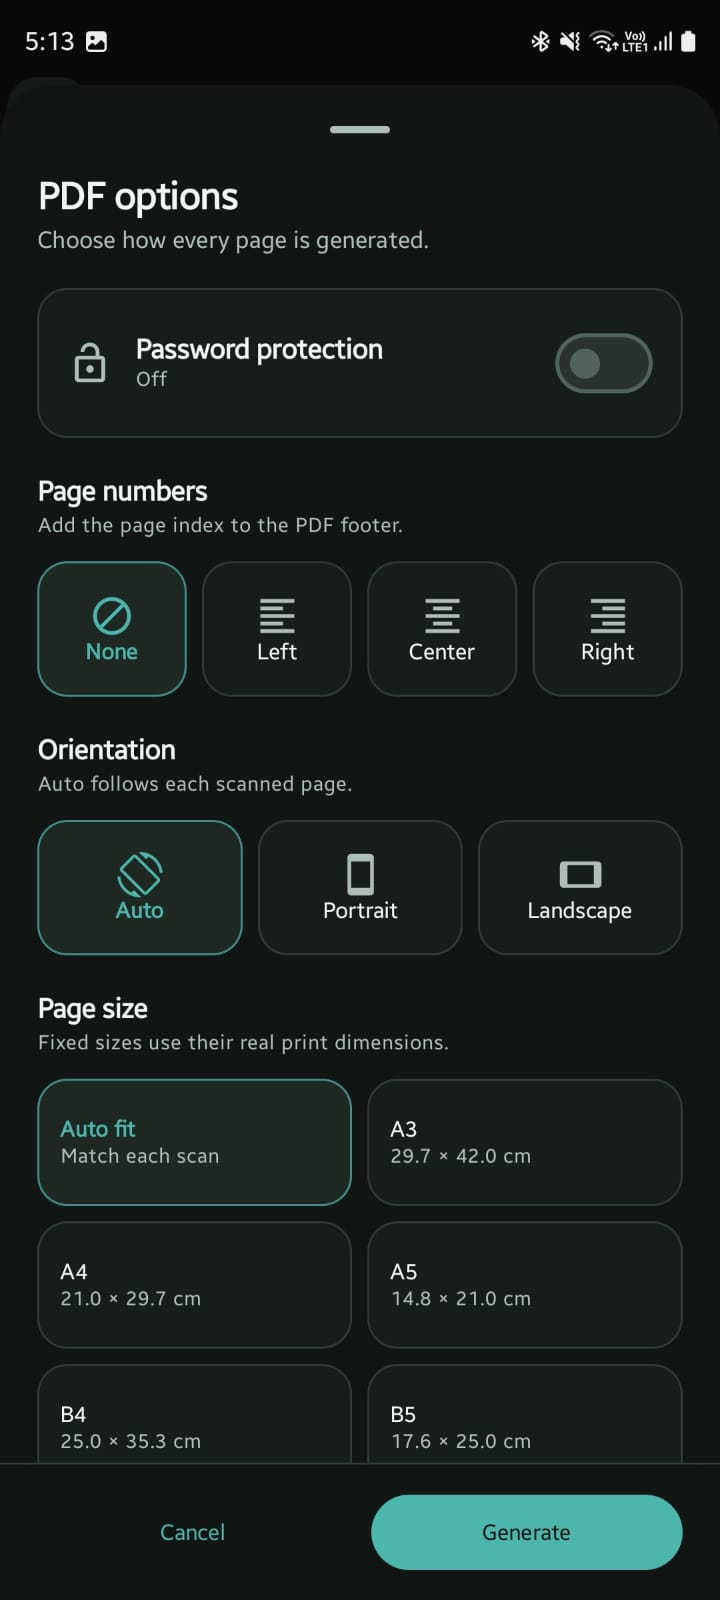
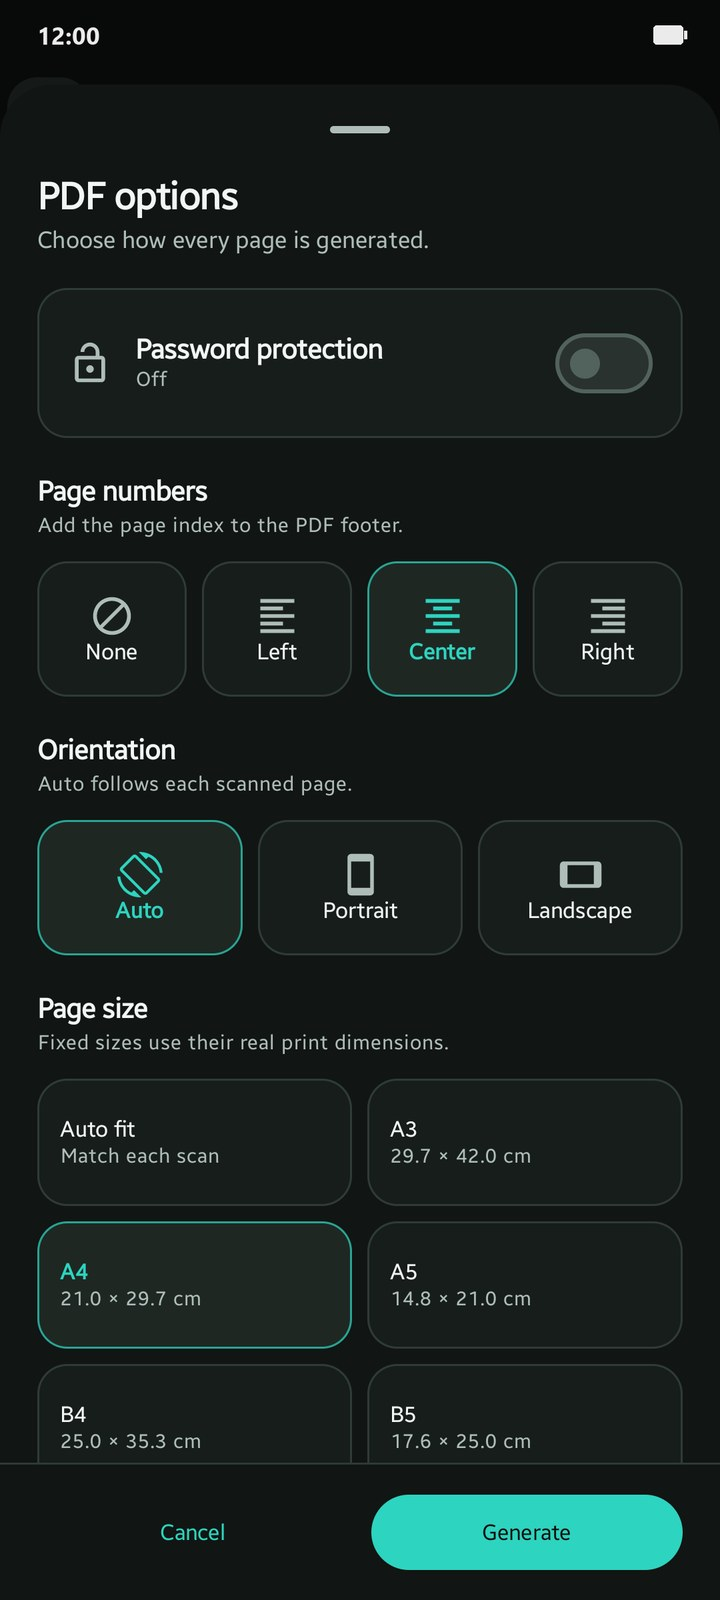
Refresh mobile screenshots with demo data; remove tablet screenshots (#14)
* Refresh mobile screenshots with demo data and drop tablet set

Recapture all seven mobile screenshots from v1.0.17 on a Galaxy S20 FE
using a clean demo install seeded with fictional documents, so no real
user documents appear. Status bars are replaced with a neutral one.

Remove the tablet screenshots and the README Tablet section.

* Restore previous camera screenshot

The fresh camera capture had no document in frame. Reuse the earlier
capture, which shows live edge guidance on a generic printed page, with
the same neutral status bar as the other screenshots.

---------

diff --git a/README.md b/README.md
@@ -52,26 +52,6 @@ It is designed for a practical, local-only scanning workflow:
   </tr>
 </table>
 
-### Tablet
-
-<table>
-  <tr>
-	<td><img src="screenshots/tablet/image-1.jpeg" alt="Scanly tablet screenshot 1" width="100%" /></td>
-	<td><img src="screenshots/tablet/image-2.jpeg" alt="Scanly tablet screenshot 2" width="100%" /></td>
-	<td><img src="screenshots/tablet/image-3.jpeg" alt="Scanly tablet screenshot 3" width="100%" /></td>
-  </tr>
-  <tr>
-	<td><img src="screenshots/tablet/image-4.jpeg" alt="Scanly tablet screenshot 4" width="100%" /></td>
-	<td><img src="screenshots/tablet/image-5.jpeg" alt="Scanly tablet screenshot 5" width="100%" /></td>
-	<td><img src="screenshots/tablet/image-6.jpeg" alt="Scanly tablet screenshot 6" width="100%" /></td>
-  </tr>
-  <tr>
-	<td><img src="screenshots/tablet/image-7.jpeg" alt="Scanly tablet screenshot 7" width="100%" /></td>
-	<td><img src="screenshots/tablet/image-8.jpeg" alt="Scanly tablet screenshot 8" width="100%" /></td>
-	<td><img src="screenshots/tablet/image-9.jpeg" alt="Scanly tablet screenshot 9" width="100%" /></td>
-  </tr>
-</table>
-
 ## Tech Stack
 
 - Kotlin
